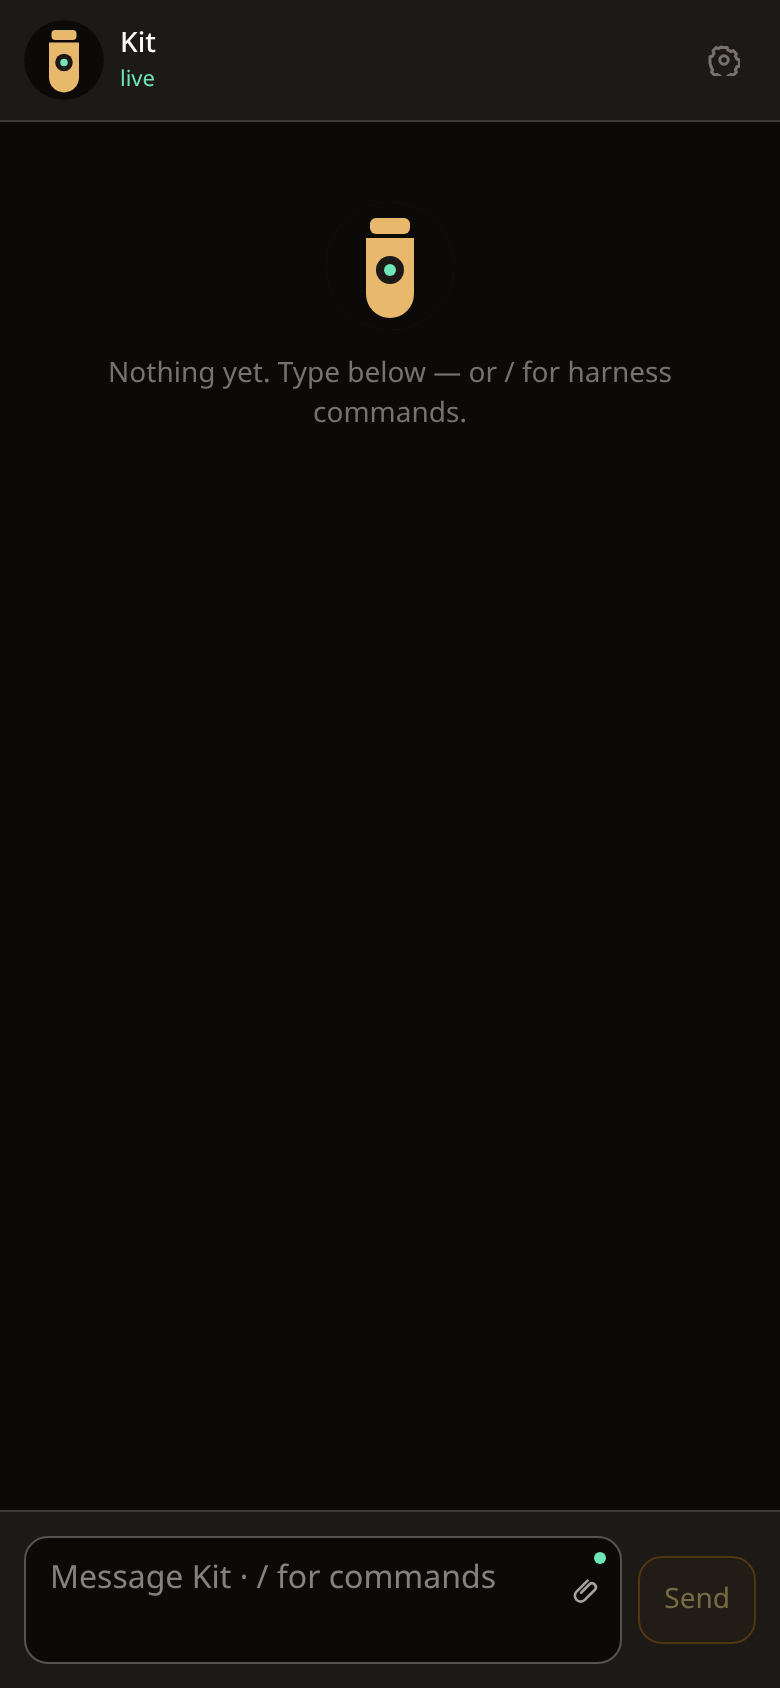
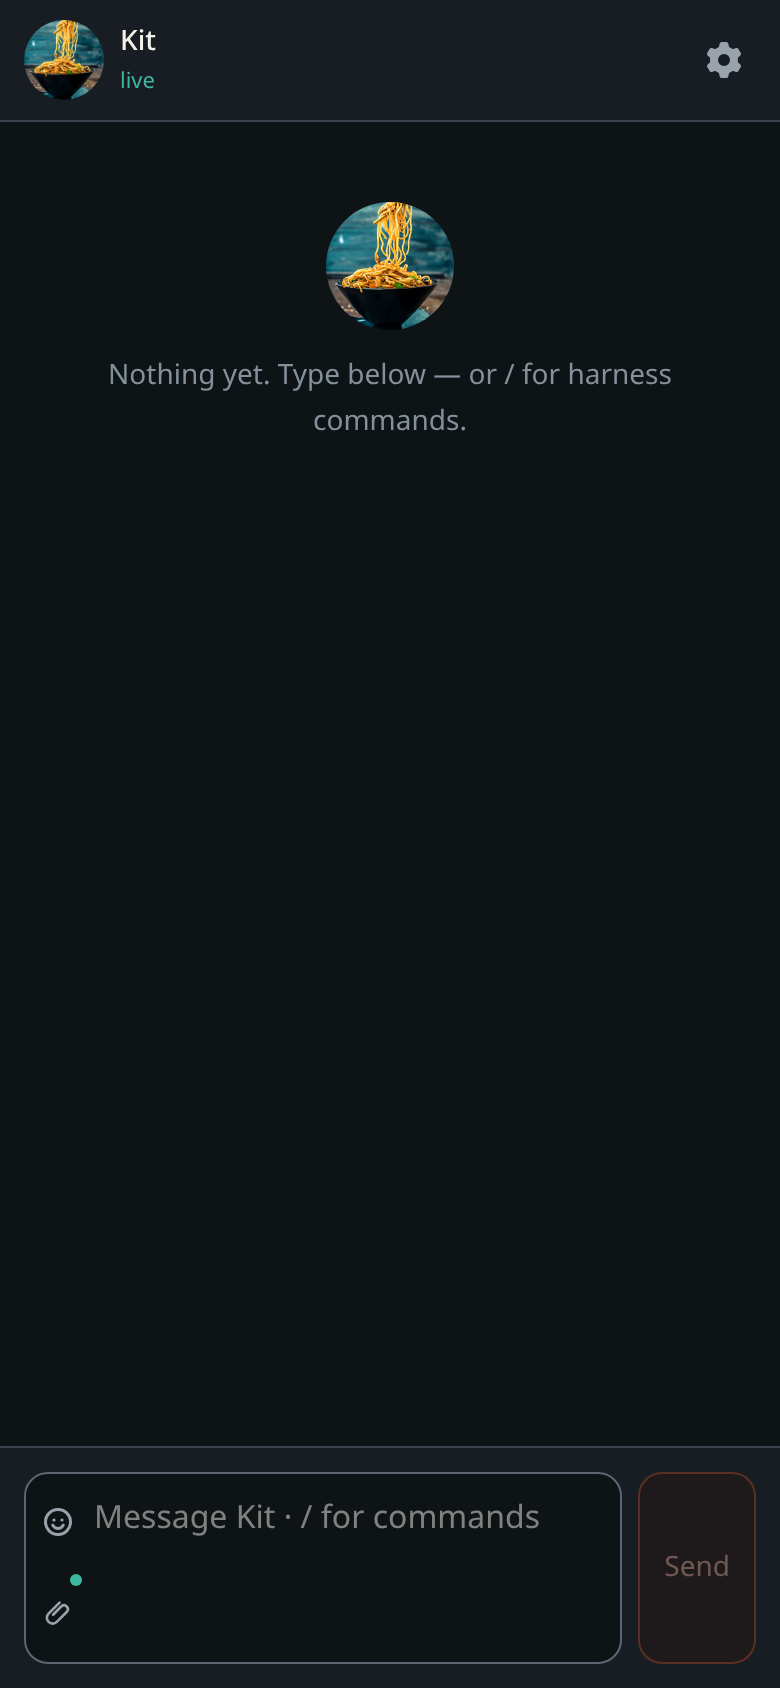
updating screenshots

diff --git a/lib/dev/samples.ts b/lib/dev/samples.ts
@@ -7,7 +7,18 @@ export const DEV_USER = {
   cranes: ["ada"],
 };
 
-export const SAMPLE_IDS = ["unsigned", "empty", "cmds", "thread", "ping", "photo", "down", "crane"] as const;
+export const SAMPLE_IDS = [
+  "unsigned",
+  "empty",
+  "cmds",
+  "thread",
+  "ping",
+  "photo",
+  "down",
+  "crane",
+  "stream",
+  "emoji",
+] as const;
 
 export type SampleId = (typeof SAMPLE_IDS)[number];
 
@@ -27,6 +38,8 @@ export type SampleScene = {
   gpsHint?: string;
   draft?: string;
   catalog?: SlashCommand[];
+  typing?: boolean;
+  emoji?: boolean;
 };
 
 export const SAMPLE_LINES = {
@@ -40,6 +53,7 @@ export const SAMPLE_LINES = {
   photoYou: "This the right hatch?",
   photoKit: "Yes — port side, yellow tape. Don't step the wet plate.",
   craneKit: "Gate's on the latch until 21:00.",
+  streamDraft: "⏳ Gate's on the latch until 21:00. I'll ping you at…",
 } as const;
 
 /** Shot/loopback stand-in only. Live catalog comes from the crane cmds frame. */
@@ -150,7 +164,7 @@ export function sampleScene(id: SampleId, role: Role): SampleScene {
       status: "up",
     };
   }
-  return {
+  const thread: SampleScene = {
     id: "thread",
     messages: [
       bubble("t1", "you", SAMPLE_LINES.threadYou, { at: 1 }),
@@ -161,4 +175,20 @@ export function sampleScene(id: SampleId, role: Role): SampleScene {
     status: "up",
     gpsHint: role === "phone" ? "pin ±12m this send" : undefined,
   };
+  if (id === "stream") {
+    return {
+      id,
+      messages: [
+        bubble("s1", "you", SAMPLE_LINES.threadYou, { at: 1 }),
+        bubble("s2", "kit", SAMPLE_LINES.streamDraft, { kind: "draft", at: 2 }),
+      ],
+      status: "up",
+      typing: true,
+      gpsHint: role === "phone" ? "pin ±12m this send" : undefined,
+    };
+  }
+  if (id === "emoji") {
+    return { ...thread, id, emoji: true };
+  }
+  return thread;
 }

diff --git a/test/app/components/chat/PhoneShell.test.tsx b/test/app/components/chat/PhoneShell.test.tsx
@@ -233,6 +233,14 @@ describe("PhoneShell", () => {
     expect(screen.getByText("Ada")).toBeTruthy();
   });
 
+  it("applies a chat font size from the query string", async () => {
+    window.history.replaceState({}, "", "/?sample=thread&font=xl");
+    stubAuth(true);
+    render(<PhoneShell />);
+    expect(await screen.findByText(SAMPLE_LINES.threadKit)).toBeTruthy();
+    expect(document.documentElement.getAttribute("data-font")).toBe("xl");
+  });
+
   it("applies a chat font size from settings", async () => {
     stubAuth(true);
     render(<PhoneShell />);
@@ -242,6 +250,25 @@ describe("PhoneShell", () => {
     expect(document.documentElement.getAttribute("data-font")).toBe("lg");
     expect(localStorage.getItem("pendant.font")).toBe("lg");
     expect(screen.getByRole("radio", { name: "Large" }).getAttribute("aria-checked")).toBe("true");
+  });
+
+  it("paints typing and a draft bubble for the stream sample", async () => {
+    window.history.replaceState({}, "", "/?sample=stream");
+    stubAuth(true);
+    render(<PhoneShell />);
+    expect(await screen.findByText(/typing/)).toBeTruthy();
+    expect(screen.getByText(SAMPLE_LINES.streamDraft)).toBeTruthy();
+    expect(screen.getByText(SAMPLE_LINES.threadYou)).toBeTruthy();
+    expect(screen.getByText(SAMPLE_LINES.streamDraft).closest(".italic")).toBeTruthy();
+  });
+
+  it("opens the emoji picker for the emoji sample", async () => {
+    window.history.replaceState({}, "", "/?sample=emoji");
+    stubAuth(true);
+    render(<PhoneShell />);
+    expect(await screen.findByRole("dialog", { name: "Emoji" })).toBeTruthy();
+    expect(screen.getByLabelText("Search emoji")).toBeTruthy();
+    expect(screen.getByText(SAMPLE_LINES.threadKit)).toBeTruthy();
   });
 
   it("paints the harness command picker for the cmds sample", async () => {

diff --git a/app/components/chat/PhoneShell.tsx b/app/components/chat/PhoneShell.tsx
@@ -86,6 +86,7 @@ export function PhoneShell({ role = "phone" }: { role?: Role }) {
   const [prefsReady, setPrefsReady] = useState(false);
   const [messages, setMessages] = useState<ChatBubble[]>([]);
   const [draft, setDraft] = useState("");
+  const [sampleEmoji, setSampleEmoji] = useState(false);
   const [catalog, setCatalog] = useState<SlashCommand[]>([]);
   const [avatarRev, setAvatarRev] = useState(0);
   const [faceHint, setFaceHint] = useState("");
@@ -169,6 +170,8 @@ export function PhoneShell({ role = "phone" }: { role?: Role }) {
     setStatus(scene.status);
     setDraft(scene.draft ?? "");
     setCatalog(scene.catalog ?? []);
+    setTyping(Boolean(scene.typing));
+    setSampleEmoji(Boolean(scene.emoji));
     if (scene.gpsHint) {
       setGpsHint(scene.gpsHint);
     }
@@ -766,7 +769,7 @@ export function PhoneShell({ role = "phone" }: { role?: Role }) {
           />
         </div>
         <Compose
-          key={`${sampleId ?? "live"}:${draft}`}
+          key={`${sampleId ?? "live"}:${draft}:${sampleEmoji ? "emoji" : ""}`}
           disabled={status !== "up"}
           placeholder={phone ? `Message ${title} · / for commands` : "Reply as the crane"}
           gpsHint={phone ? gpsHint : undefined}
@@ -775,6 +778,7 @@ export function PhoneShell({ role = "phone" }: { role?: Role }) {
           commands={phone}
           catalog={catalog}
           initialText={draft}
+          initialEmoji={sampleEmoji}
           onSend={(t) => void sendText(t)}
           onPhoto={phone ? (f) => void sendPhoto(f) : undefined}
           onPin={phone ? () => void sendPin() : undefined}

diff --git a/test/dev/samples.test.ts b/test/dev/samples.test.ts
@@ -55,6 +55,18 @@ describe("samples", () => {
     expect(sampleScene("cmds", "phone").draft).toBe("/");
     expect(sampleScene("cmds", "phone").catalog?.map((c) => c.name)).toEqual(["new", "status", "brief"]);
     expect(sampleScene("empty", "phone").draft).toBeUndefined();
+    expect(parseSample("stream")).toBe("stream");
+    expect(parseSample("emoji")).toBe("emoji");
+    const stream = sampleScene("stream", "phone");
+    expect(stream.typing).toBe(true);
+    expect(stream.messages.map((m) => m.kind)).toEqual([undefined, "draft"]);
+    expect(stream.messages[1]?.text).toBe(SAMPLE_LINES.streamDraft);
+    expect(sampleScene("emoji", "phone").emoji).toBe(true);
+    expect(sampleScene("emoji", "phone").messages.map((m) => m.text)).toEqual(
+      sampleScene("thread", "phone").messages.map((m) => m.text),
+    );
+    expect(sampleScene("thread", "phone").typing).toBeUndefined();
+    expect(sampleScene("thread", "phone").emoji).toBeUndefined();
   });
 
   it("rotates canned Kit replies", () => {

diff --git a/app/components/chat/Compose.tsx b/app/components/chat/Compose.tsx
@@ -168,6 +168,7 @@ export function Compose({
   commands,
   catalog = [],
   initialText = "",
+  initialEmoji = false,
 }: {
   disabled?: boolean;
   placeholder?: string;
@@ -181,11 +182,12 @@ export function Compose({
   commands?: boolean;
   catalog?: readonly SlashCommand[];
   initialText?: string;
+  initialEmoji?: boolean;
 }) {
   const [text, setText] = useState(() => applyEmoji(initialText, initialText.length, "send").text);
-  const [dismissed, setDismissed] = useState(false);
+  const [dismissed, setDismissed] = useState(initialEmoji);
   const [active, setActive] = useState(0);
-  const [emojiOpen, setEmojiOpen] = useState(false);
+  const [emojiOpen, setEmojiOpen] = useState(initialEmoji);
   const [emojiQuery, setEmojiQuery] = useState("");
   const fileRef = useRef<HTMLInputElement>(null);
   const boxRef = useRef<HTMLTextAreaElement>(null);

diff --git a/test/app/components/chat/Compose.test.tsx b/test/app/components/chat/Compose.test.tsx
@@ -115,6 +115,12 @@ describe("Compose", () => {
     expect(onSend).toHaveBeenCalledWith("yo 😀");
   });
 
+  it("opens the emoji picker when the sample asks", () => {
+    render(<Compose onSend={vi.fn()} initialEmoji />);
+    expect(screen.getByRole("dialog", { name: "Emoji" })).toBeTruthy();
+    expect(screen.getByLabelText("Search emoji")).toBeTruthy();
+  });
+
   it("stacks emoji and attach on the left of the draft", () => {
     render(<Compose onSend={vi.fn()} onPhoto={vi.fn()} />);
     const emoji = screen.getByRole("button", { name: "emoji" });

diff --git a/docs/screens.md b/docs/screens.md
@@ -12,9 +12,10 @@ canned Ada/Kit turns — not a live crane.
 ## Phone
 
 The product viewport is a pocket (390×844). Theme defaults to Boom.
-Kit’s face sits in the header (tap to replace it). Empty and unsigned
-screens use the same mark. Fallback is the pendant glyph until a JPEG
-is saved on the Durable Object.
+Chat type defaults to Small; Extra large is a shot. Kit’s face sits in
+the header (tap to replace it). Compose has emoji on the left, attach
+under it. Empty and unsigned screens use the same mark. Fallback is the
+pendant glyph until a JPEG is saved on the Durable Object.
 
 <p align="center">
   <img src="../assets/docs/login.png" alt="Sign in with Google" width="220">
@@ -33,6 +34,14 @@ is saved on the Durable Object.
 </p>
 
 <p align="center">
+  <img src="../assets/docs/stream.png" alt="Kit typing with a live draft bubble" width="220">
+  &nbsp;
+  <img src="../assets/docs/emoji.png" alt="Emoji picker over the thread" width="220">
+  &nbsp;
+  <img src="../assets/docs/thread-xl.png" alt="Same thread at extra-large type" width="220">
+</p>
+
+<p align="center">
   <img src="../assets/docs/down.png" alt="Socket down, compose disabled" width="220">
   &nbsp;
   <img src="../assets/docs/thread-day.png" alt="Same thread in Lamp theme" width="220">
@@ -44,13 +53,17 @@ is saved on the Durable Object.
 | --- | --- | --- |
 | `login` | `/login` | Google door. The crane decides who may talk. |
 | `unsigned` | `/?sample=unsigned` | Same gate inside the shell. |
-| `empty` | `/?sample=empty` | Live, nothing said yet. Paperclip attach: photo, commands, GPS. |
+| `empty` | `/?sample=empty` | Live, nothing said yet. Emoji + paperclip (photo, commands, GPS). |
 | `cmds` | `/?sample=cmds` | Command picker. Live list is published by the crane (`cmds` frame); this sample paints a short stand-in. |
 | `thread` | `/?sample=thread` | Ada ↔ Kit. Pin is this-send. |
+| `stream` | `/?sample=stream` | Crane typing + italic draft bubble (⏳). |
+| `emoji` | `/?sample=emoji` | Same thread with the emoji tray open. |
 | `ping` | `/?sample=ping` | Cron `Push` — labeled **ping**. |
 | `photo` | `/?sample=photo` | Inbound image + text. |
 | `down` | `/?sample=down` | Other side gone. Compose locked. |
 | `thread-day` | `/?sample=thread&theme=lamp` | Lamp theme. Boom / Inlay / Lamp live in the picker. |
+| `thread-xl` | `/?sample=thread&font=xl` | Extra-large chat type. Small is the default. |
+| `settings` | `/?sample=empty` | Cog open — theme, font size, Install. |
 | `crane` | `/crane?sample=crane` | Loopback stand-in for the harness (`PENDANT_DEV`). |
 
 ---

diff --git a/README.md b/README.md
@@ -37,12 +37,13 @@ ports. The Mini does not have to be the mailbox.
   &nbsp;
   <img src="assets/docs/thread.png" alt="Ada talking to Kit" width="180">
   &nbsp;
-  <img src="assets/docs/ping.png" alt="Cron ping in the thread" width="180">
+  <img src="assets/docs/stream.png" alt="Kit typing with a live draft" width="180">
   &nbsp;
-  <img src="assets/docs/photo.png" alt="Photo on an inbound turn" width="180">
+  <img src="assets/docs/emoji.png" alt="Emoji picker" width="180">
 </p>
 
-Every screen, Lamp theme, crane stand-in: [docs/screens.md](docs/screens.md).
+Every screen, Lamp, extra-large type, crane stand-in:
+[docs/screens.md](docs/screens.md).
 
 **Docs (the plan lives here, not in chat):**
 
@@ -71,9 +72,9 @@ npm run dev                      # http://127.0.0.1:3000 — Chrome can Install 
 ```
 
 Loopback with `PENDANT_DEV=1`: mock Ada, no Google. `/?sample=thread`
-(and `ping`, `photo`, `empty`, …) paints canned scenes.
-Compose without a sample gets canned Kit replies. Type the spike
-secret to join the real room.
+(and `stream`, `emoji`, `ping`, `photo`, `empty`, …) paints canned
+scenes. Compose without a sample gets canned Kit replies. Type the
+spike secret to join the real room.
 
 Open two tabs: `/` (phone) and `/crane` (crane stand-in). Same slug,
 same secret. Type in one, see it in the other.
